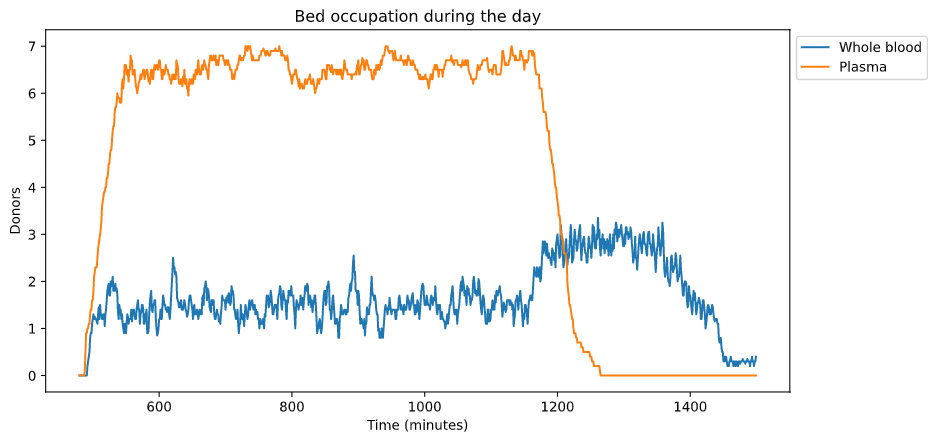
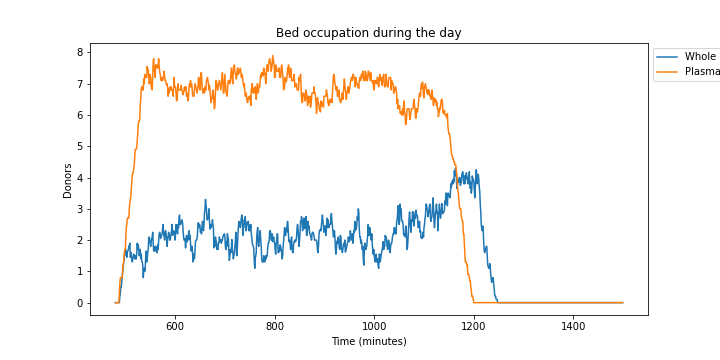
Final code

diff --git a/Assignment 3/test.py b/Assignment 3/test.py
@@ -36,7 +36,7 @@ def add_arrivals():
     system.re_init()
     # add plasma donor arrivals
     num = 0
-    for t in range(opening_time, closing_time - 60, 5):
+    for t in range(opening_time, closing_time - 60, 6):
         num += 1
         if np.random.random() <= 0.85:
             system.add_arrival(t, Donor(t, Donor.PLASMA))
@@ -69,7 +69,13 @@ def queue_lengths(events):
     queue_sizes = { }
 
     # will contain lists of tuples of form (time, queue_size)
-    queues_data = { }
+    queues_data = {
+        registration_q: [(480, 0)],
+        interview_q:    [(480, 0)],
+        donation_q:     [(480, 0)],
+        connect_q:      [(480, 0)],
+        disconnect_q:   [(480, 0)]
+    }
     
     for event in events:
         time = event.time
@@ -137,8 +143,14 @@ def section_donors(events):
     sec_occupants['Total'] = 0
 
     # will contain lists of tuples of form (time, queue_size)
-    sec_data = { }
-    sec_data['Total'] = [(480, 0)]
+    sec_data = { 
+        registration_line:  [(480, 0)],
+        question_room:      [(480, 0)],
+        pre_interview_room: [(480, 0)],
+        pre_donation_room:  [(480, 0)],
+        donation_room:      [(480, 0)],
+        'Total':            [(480, 0)]
+    }
 
     for event in events:
         time = event.time
@@ -467,11 +479,6 @@ def display_all_results(events, individual):
             print(f'{section}: \nMean:{np.mean(data)} \nCI:{ci}')
 
 def combine_days(days_data):
-    # minute_data = {}
-    # for key in days_data[0]:
-    #     key_data = [days_data[day][key] for day in days_data]
-    #      = zip(*key_data)
-    # return minute_data
     n_days = len(days_data)
     key_data = {}
     for key in days_data[0]:
@@ -501,5 +508,3 @@ def run_simulation(days):
 
 events_by_day = run_simulation(10)
 display_all_results(events_by_day, False)
-
-# [[print(action) for action in event.executed_actions] for event in events]

diff --git a/Assignment 3/system_definition.py b/Assignment 3/system_definition.py
@@ -15,7 +15,7 @@ connect_q      = system.createQ('Connect')
 disconnect_q   = system.createQ('Disconnect')
 receptionists = [
     system.createStaff('Receptionist', 'Receptionist 1'),
-#     system.createStaff('Receptionist', 'Receptionist 2')
+    system.createStaff('Receptionist', 'Receptionist 2')
 ]
 doctors = [
     system.createStaff('Doctor', 'Doctor 1'),
@@ -24,9 +24,9 @@ doctors = [
 ]
 nurses = [
     system.createStaff('Nurse', 'Nurse 1'),
-    # system.createStaff('Nurse', 'Nurse 2'),
-    # system.createStaff('Nurse', 'Nurse 3'),
-    # system.createStaff('Nurse', 'Nurse 4')
+    system.createStaff('Nurse', 'Nurse 2'),
+    system.createStaff('Nurse', 'Nurse 3'),
+    system.createStaff('Nurse', 'Nurse 4')
 ]
 
 # Returns the arrival rate per minute of whole blood donors
